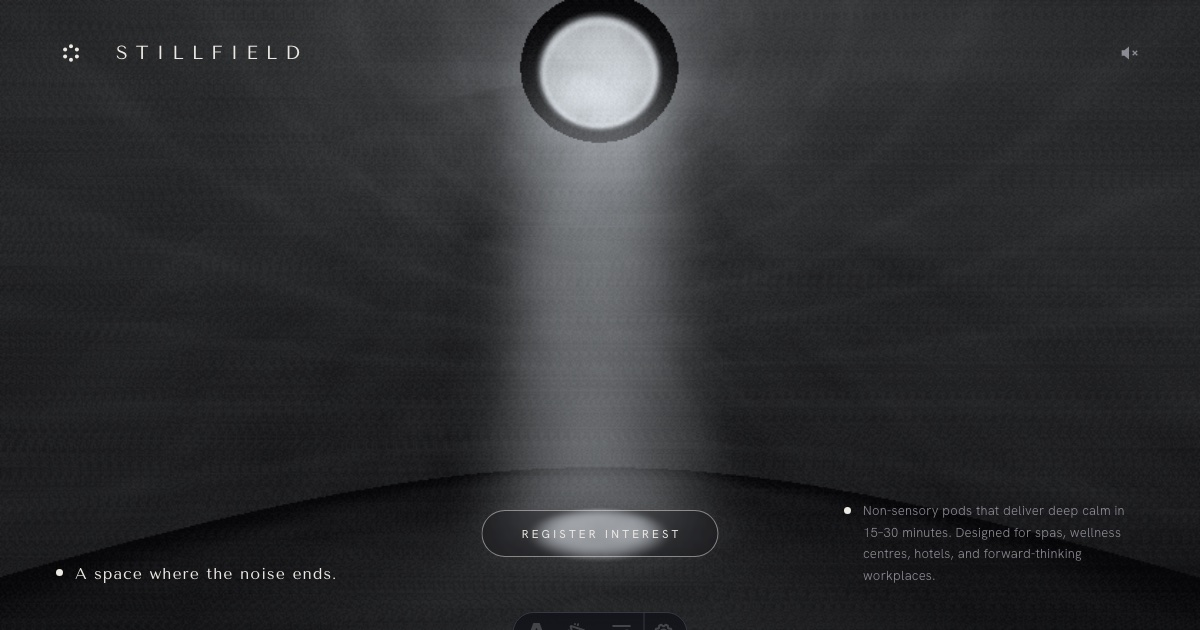
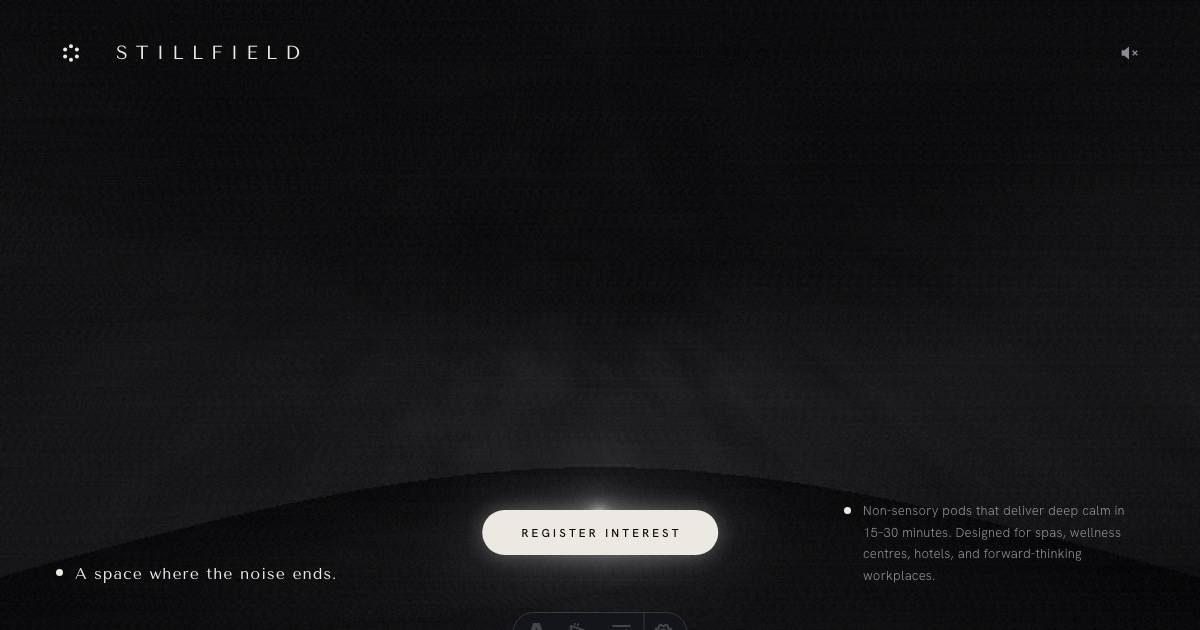
feat: make the Register pill the only light in a sealed black dome
Remove the oculus and god-ray (read as an out-of-place fixture, and the
room sat too bright and grey). The rotunda is now sealed and near-black;
the CTA pill is a lamp on the floor — true white at the source, raking
up the curved wall, true black at the crown. The lamp breathes slowly
and swells as the pointer nears the button; ?lit pins full glow for OG
renders. Volume march dropped for an analytic halo (cheaper).

diff --git a/src/components/Dome.tsx b/src/components/Dome.tsx
@@ -2,11 +2,11 @@ import { useEffect, useRef } from 'react';
 
 /*
   The dome. A single full-screen fragment shader on raw WebGL (no three.js):
-  the camera stands inside a vast monochrome rotunda, raymarched analytically
-  (sphere + floor), with a circular oculus at the crown. Through the oculus:
-  the bright, churning noise of the world. Falling from it: a volumetric
-  shaft of light — the only thing that moves in the room — landing in a pool
-  on the floor where the CTA sits. Decorative only (aria-hidden); all real
+  the camera stands inside a vast, sealed, black rotunda — no opening, no
+  sky. The only light in the room is the lamp: a low glow at the Register
+  pill's position on the floor, lighting the chamber from below and falling
+  to true black overhead. The lamp breathes slowly, and swells when the
+  pointer approaches the button. Decorative only (aria-hidden); all real
   content is server-rendered HTML.
 */
 
@@ -16,11 +16,11 @@ precision highp float;
 uniform vec2  uRes;
 uniform float uTime;
 uniform vec2  uSway;   // eased mouse parallax, [-1,1]
+uniform float uGlow;   // lamp energy: boot ramp × pointer proximity, 0..1
 
-const float R  = 6.0;                       // dome radius
-const vec3  OC = vec3(0.0, 6.0, 0.0);       // oculus centre (crown)
-const float OR = 0.78;                      // oculus radius
-const vec3  LD = normalize(vec3(0.0, -1.0, -0.26)); // light, leaning into the room
+const float R  = 6.0;                     // dome radius
+const vec3  LP = vec3(0.0, 0.16, -1.5);   // the lamp: just above the floor,
+                                          // where the Register pill stands
 
 // ── noise ──────────────────────────────────────────
 float hash(vec2 p) {
@@ -28,53 +28,16 @@ float hash(vec2 p) {
   p += dot(p, p + 34.345);
   return fract(p.x * p.y);
 }
-float hash3(vec3 p) {
-  p = fract(p * 0.3183099 + vec3(0.1, 0.2, 0.3));
-  p *= 17.0;
-  return fract(p.x * p.y * p.z * (p.x + p.y + p.z));
-}
 float vnoise(vec2 p) {
   vec2 i = floor(p), f = fract(p);
   vec2 u = f * f * (3.0 - 2.0 * f);
   return mix(mix(hash(i), hash(i + vec2(1, 0)), u.x),
              mix(hash(i + vec2(0, 1)), hash(i + vec2(1, 1)), u.x), u.y);
 }
-float vnoise3(vec3 p) {
-  vec3 i = floor(p), f = fract(p);
-  vec3 u = f * f * (3.0 - 2.0 * f);
-  return mix(
-    mix(mix(hash3(i), hash3(i + vec3(1, 0, 0)), u.x),
-        mix(hash3(i + vec3(0, 1, 0)), hash3(i + vec3(1, 1, 0)), u.x), u.y),
-    mix(mix(hash3(i + vec3(0, 0, 1)), hash3(i + vec3(1, 0, 1)), u.x),
-        mix(hash3(i + vec3(0, 1, 1)), hash3(i + vec3(1, 1, 1)), u.x), u.y),
-    u.z);
-}
 float fbm(vec2 p) {
   float v = 0.0, a = 0.5;
   for (int i = 0; i < 4; i++) { v += a * vnoise(p); p *= 2.03; a *= 0.5; }
   return v;
-}
-float fbm3(vec3 p) {
-  float v = 0.0, a = 0.5;
-  for (int i = 0; i < 2; i++) { v += a * vnoise3(p); p *= 2.1; a *= 0.5; }
-  return v;
-}
-
-// does a surface point see the sun disc through the oculus?
-float sunVis(vec3 P) {
-  float t = (OC.y - P.y) / (-LD.y);                 // march toward the sky
-  vec2 X = P.xz + (-LD.xz) * t;
-  return smoothstep(OR + 0.22, OR - 0.30, length(X - OC.xz));
-}
-
-// distance from a point to the beam axis, vs the beam's local radius
-float beamCore(vec3 P) {
-  vec3 w = P - OC;
-  float along = dot(w, LD);
-  if (along < 0.0) return 0.0;
-  float d = length(w - along * LD);
-  float rad = OR * (1.0 + 0.07 * along);            // gentle spread
-  return smoothstep(rad * 1.9, rad * 0.45, d);
 }
 
 float plaster(vec3 P) {
@@ -87,7 +50,7 @@ float plaster(vec3 P) {
 void main() {
   vec2 uv = (gl_FragCoord.xy * 2.0 - uRes) / uRes.y;
 
-  // ── camera: standing in the rotunda, looking gently up ──
+  // ── camera: standing in the rotunda ──
   vec3 ro = vec3(0.0, 1.7, 3.6);
   vec3 ta = vec3(uSway.x * 0.55, 3.3 - uSway.y * 0.45, -2.5);
   vec3 fw = normalize(ta - ro);
@@ -103,72 +66,47 @@ void main() {
   float tHit = floorHit ? tFl : tSph;
   vec3 P = ro + rd * tHit;
 
-  float I = 0.0;       // scalar luminance — the room is monochrome
+  // lamp energy: slow breathing on top of the proximity swell
+  float E = uGlow * (1.0 + 0.05 * sin(uTime * 0.45));
 
-  if (!floorHit && length(P.xz) < OR * 1.35 && P.y > 0.0) {
-    // ── the oculus: the world outside, bright and churning ──
-    float d = length(P.xz) / OR;
-    float disc = smoothstep(1.06, 0.94, d);
-    float churn = fbm(P.xz * 2.4 + vec2(uTime * 0.05, -uTime * 0.032));
-    float sky = 1.25 * (0.78 + 0.45 * churn);
-    sky *= 0.72 + 0.28 * smoothstep(1.0, 0.25, d);   // limb darkening
-    I += disc * sky;
-    // rim: the stone edge catches the light
-    I += smoothstep(0.13, 0.0, abs(d - 1.0)) * 0.30;
-  } else {
-    float tex = plaster(P);
-    if (floorHit) {
-      // ── floor: dark stone, lit by the pool ──
-      float base = 0.030 + 0.045 * tex;
-      float seam = smoothstep(R, R - 1.6, length(P.xz));   // AO at the wall
-      float pool = sunVis(P) * 1.0;
-      pool *= 0.82 + 0.36 * fbm(P.xz * 3.0);               // texture in the light
-      // faint sheen reflecting the crown, directly under it
-      float sheen = 0.05 * smoothstep(3.6, 0.4, length(P.xz - OC.xz));
-      I += (base + sheen) * seam + pool;
-    } else {
-      // ── the vault: plaster catching skylight from the crown ──
-      vec3 n = -normalize(P);
-      vec3 toO = OC - P;
-      float dd = dot(toO, toO);
-      float skylight = max(dot(n, toO / sqrt(dd)), 0.0) * (4.3 / dd);
-      float base = 0.022 + 0.05 * tex;
-      float bounce = 0.012 * max(dot(n, vec3(0.0, -1.0, 0.0)), 0.0); // floor glow
-      float sun = sunVis(P) * max(dot(n, -LD), 0.0) * 0.7;
-      I += base + skylight * (0.55 + 0.5 * tex) + bounce + sun;
-      // courses: the faintest concentric whisper on the vault
-      float phi = acos(clamp(normalize(P).y, -1.0, 1.0));
-      I += pow(0.5 + 0.5 * cos(phi * 38.0 + tex * 2.0), 8.0) * 0.012;
-    }
+  // ── surface: one low light against the dark ──
+  vec3 n = floorHit ? vec3(0.0, 1.0, 0.0) : -normalize(P);
+  float tex = plaster(P);
+  float albedo = floorHit ? 0.55 + 0.50 * tex : 0.40 + 0.60 * tex;
 
-    // depth: the far side of the room recedes
-    I *= mix(1.0, 0.55, clamp((tHit - 4.0) / 14.0, 0.0, 1.0));
+  vec3 toL = LP - P;
+  float d2 = dot(toL, toL) + 0.03;
+  float lam = max(dot(n, toL * inversesqrt(d2)), 0.0);
+  // softer-than-physical falloff so the lamp's rake reaches the far wall
+  // and the curve of the room emerges from the dark; the wall gets more
+  // energy than the floor so the vault reads without blowing out the pool
+  float K = floorHit ? 0.45 : 0.95;
+  float I = albedo * lam * E * K / pow(d2, 0.72);
+  // the crown stays night-black even when the lamp swells
+  if (!floorHit) I *= mix(1.0, 0.25, smoothstep(1.6, 4.8, P.y));
+
+  // ambient spill: enough for the seam arc and the lower vault to emerge
+  I += albedo * E * 0.05 * exp(-d2 * 0.022);
+
+  // depth: the far side of the room recedes
+  I *= mix(1.0, 0.5, clamp((tHit - 4.0) / 14.0, 0.0, 1.0));
+
+  // ── the lamp's halo: a soft sphere of light in the air ──
+  vec3 w = LP - ro;
+  float tc = dot(w, rd);
+  if (tc > 0.0 && tc < tHit + 0.5) {
+    float h2 = dot(w, w) - tc * tc;
+    I += E * 0.016 / (0.012 + h2 * 3.2);
   }
 
-  // ── the shaft of light: march the haze inside the beam ──
-  float jit = hash(gl_FragCoord.xy + fract(uTime) * 61.7);
-  float tMax = min(tHit, 13.0);
-  float dt = tMax / 26.0;
-  float vol = 0.0;
-  for (int i = 0; i < 26; i++) {
-    vec3 Q = ro + rd * ((float(i) + jit) * dt);
-    float core = beamCore(Q);
-    if (core <= 0.001) continue;
-    float dust = 0.55 + 0.75 * fbm3(Q * vec3(0.9, 0.45, 0.9)
-                  + vec3(uTime * 0.016, -uTime * 0.05, 0.0));
-    float fall = exp(-max(dot(Q - OC, LD), 0.0) * 0.10);    // fades as it falls
-    vol += core * dust * fall * dt;
-  }
-  I += vol * 0.20;
-
-  // ── grade: soft knee, vignette, grain ──
-  I = 1.0 - exp(-I * 1.5);
+  // ── grade: hard knee — true white at the lamp, true black above ──
+  I = 1.0 - exp(-I * 1.7);
   vec2 sc = gl_FragCoord.xy / uRes;
-  I *= smoothstep(1.25, 0.45, distance(sc, vec2(0.5, 0.52)));
-  I += (hash(gl_FragCoord.xy * 0.71 + floor(uTime * 14.0)) - 0.5) * 0.055;
+  I *= smoothstep(1.35, 0.5, distance(sc, vec2(0.5, 0.55)));
+  I += (hash(gl_FragCoord.xy * 0.71 + floor(uTime * 14.0)) - 0.5) * 0.04;
 
-  vec3 ink = vec3(0.925, 0.949, 0.973);   // cool daylight through the oculus
-  vec3 bg  = vec3(0.024, 0.024, 0.027);
+  vec3 ink = vec3(0.945, 0.945, 0.953);
+  vec3 bg  = vec3(0.012, 0.012, 0.014);
   gl_FragColor = vec4(mix(bg, ink, clamp(I, 0.0, 1.0)), 1.0);
 }
 `;
@@ -223,8 +161,9 @@ export default function Dome() {
     const uRes = gl.getUniformLocation(prog, 'uRes');
     const uTime = gl.getUniformLocation(prog, 'uTime');
     const uSway = gl.getUniformLocation(prog, 'uSway');
+    const uGlow = gl.getUniformLocation(prog, 'uGlow');
 
-    // the raymarch is per-pixel heavy — render under-resolution and upscale;
+    // per-pixel raymarch — render under-resolution and upscale;
     // the film grain hides it completely
     const SCALE = 0.7;
     const resize = () => {
@@ -237,12 +176,25 @@ export default function Dome() {
     resize();
     window.addEventListener('resize', resize);
 
-    // barely-there parallax + slow breathing drift
+    // parallax + "the light notices you": lamp swells as the pointer
+    // nears the Register pill. Touch devices just get the breathing.
+    const pill = document.querySelector<HTMLElement>('.register');
     const target = { x: 0, y: 0 };
     const eased = { x: 0, y: 0 };
+    // ?lit pins the lamp at full glow (for OG/screenshot renders)
+    const lit = new URLSearchParams(location.search).has('lit');
+    let prox = lit ? 1 : 0;  // 0 far → 1 on the button
+    let proxEased = 0;
     const onMove = (e: MouseEvent) => {
       target.x = (e.clientX / window.innerWidth - 0.5) * 2;
       target.y = (e.clientY / window.innerHeight - 0.5) * 2;
+      if (pill && !lit) {
+        const r = pill.getBoundingClientRect();
+        const dx = e.clientX - (r.left + r.width / 2);
+        const dy = e.clientY - (r.top + r.height / 2);
+        const reach = Math.min(window.innerWidth, window.innerHeight) * 0.55;
+        prox = Math.max(0, 1 - Math.hypot(dx, dy) / reach);
+      }
     };
     if (!reduce) window.addEventListener('mousemove', onMove);
 
@@ -253,10 +205,13 @@ export default function Dome() {
       const t = (performance.now() - t0) / 1000;
       eased.x += (target.x - eased.x) * 0.02;
       eased.y += (target.y - eased.y) * 0.02;
+      proxEased += (prox - proxEased) * 0.03;
+      const boot = reduce ? 1 : Math.min(1, t / 2.2);        // the lamp ignites
       const driftX = reduce ? 0 : Math.sin(t * 0.05) * 0.05;
       const driftY = reduce ? 0 : Math.sin(t * 0.037) * 0.04;
       gl.uniform1f(uTime, reduce ? 0 : t);
       gl.uniform2f(uSway, eased.x * 0.3 + driftX, eased.y * 0.25 + driftY);
+      gl.uniform1f(uGlow, boot * boot * (0.62 + 0.38 * proxEased));
       gl.drawArrays(gl.TRIANGLES, 0, 3);
       if (!ready) { ready = true; host.classList.add('is-ready'); }
       if (!reduce) raf = requestAnimationFrame(frame);

diff --git a/src/styles/global.css b/src/styles/global.css
@@ -58,15 +58,14 @@ button { cursor: pointer; }
   overflow: hidden;
 }
 /* before hydration (and with JS off) a quiet CSS approximation of the room:
-   a faint glow at the crown and a pool of light low-centre */
+   the lamp's glow low-centre, darkness everywhere else */
 .stage::before {
   content: "";
   position: absolute;
   inset: 0;
   z-index: 0;
   background:
-    radial-gradient(38% 26% at 50% 80%, rgba(var(--halo), 0.16), transparent 70%),
-    radial-gradient(30% 18% at 50% -4%, rgba(var(--halo), 0.18), transparent 75%);
+    radial-gradient(34% 22% at 50% 84%, rgba(var(--halo), 0.17), transparent 70%);
 }
 
 /* ── Dome (WebGL) ──────────────────────────────── */
@@ -139,30 +138,33 @@ button { cursor: pointer; }
   transform: translateX(-50%);
   z-index: 3;
 }
+/* the pill IS the lamp: filled warm white, casting its own glow */
 .register {
   display: inline-flex;
   align-items: center;
   justify-content: center;
   padding: 15px 36px;
-  border: 1px solid rgba(236,233,227,0.5);
+  border: none;
   border-radius: 999px;
-  background: rgba(6,6,7,0.22);
-  color: var(--ink);
+  background: var(--ink);
+  color: #0a0a0a;
   font-family: var(--body);
   font-size: 11.5px;
-  font-weight: 400;
+  font-weight: 500;
   letter-spacing: 0.28em;
   text-indent: 0.28em;
   text-transform: uppercase;
   white-space: nowrap;
-  backdrop-filter: blur(2px);
-  -webkit-backdrop-filter: blur(2px);
-  transition: border-color 0.3s ease, background 0.3s ease, color 0.3s ease;
+  box-shadow:
+    0 0 22px rgba(236, 233, 227, 0.30),
+    0 0 80px rgba(var(--halo), 0.22);
+  transition: box-shadow 0.6s ease, background 0.6s ease;
 }
 .register:hover {
-  background: var(--ink);
-  color: #0a0a0a;
-  border-color: var(--ink);
+  background: #ffffff;
+  box-shadow:
+    0 0 30px rgba(255, 255, 255, 0.45),
+    0 0 110px rgba(var(--halo), 0.30);
 }
 
 /* ── Captions at the edges ─────────────────────── */